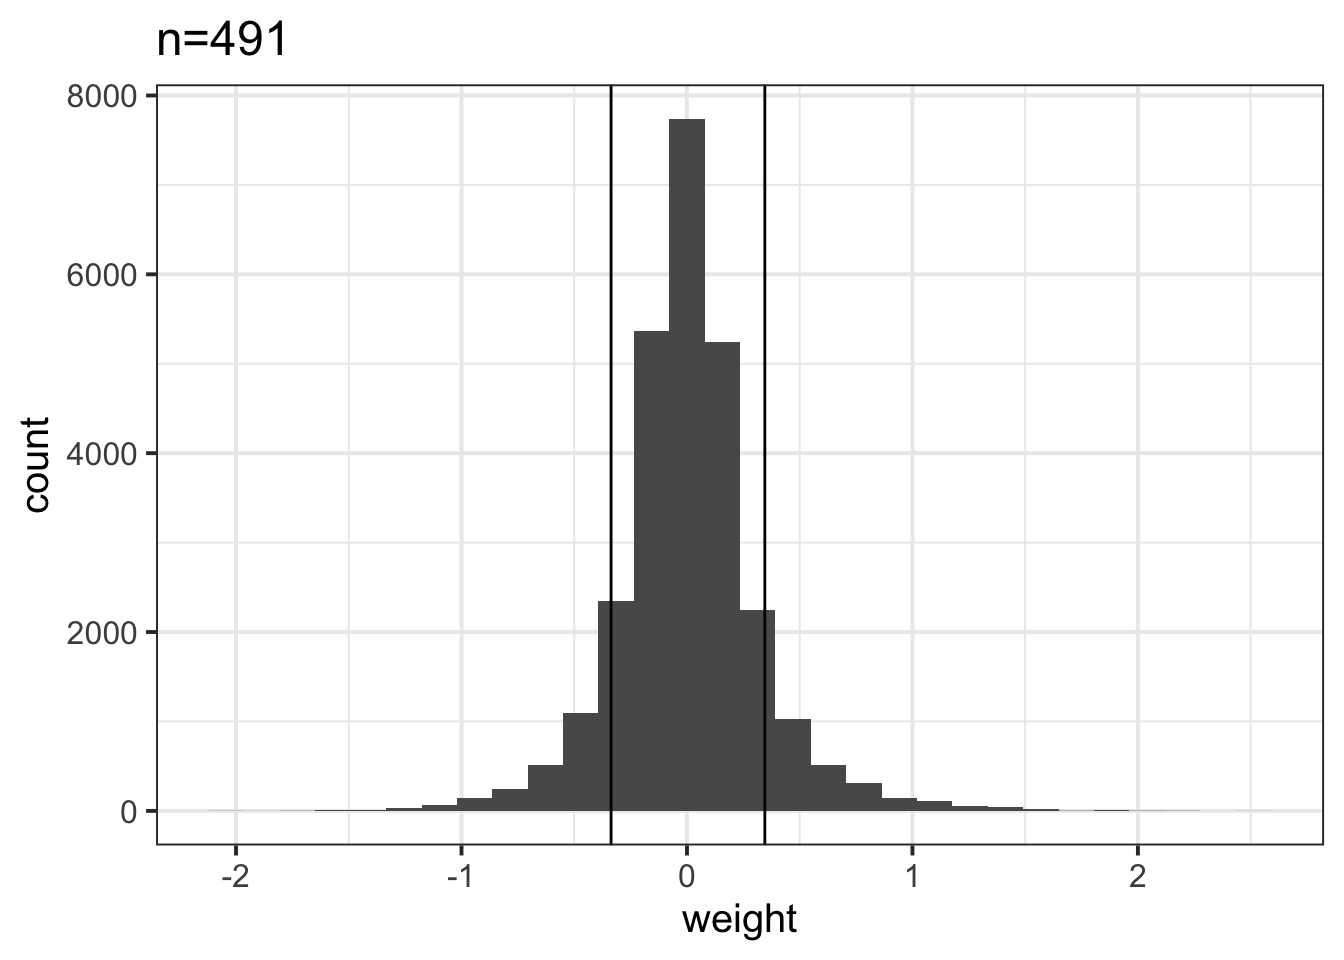
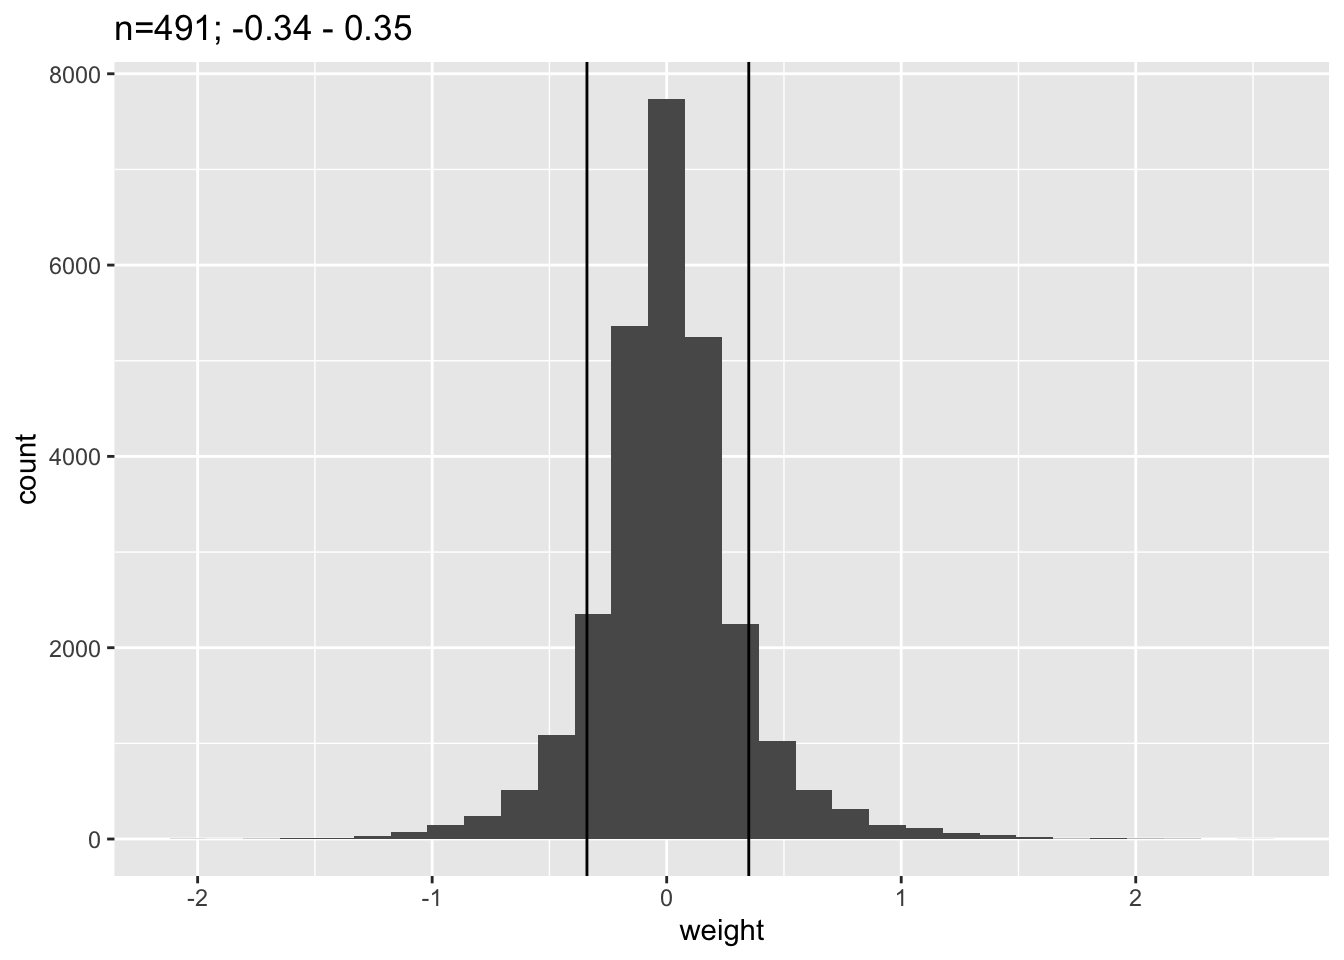
effect sizes

diff --git a/_site/posts/2023-02-28-predictdb-weights-distribution/predictdb-weights-distribution.html b/_site/posts/2023-02-28-predictdb-weights-distribution/predictdb-weights-distribution.html
@@ -255,9 +255,9 @@ code span.wa { color: #60a0b0; font-weight: bold; font-style: italic; } /* Warni
 <span id="cb3-6"><a href="#cb3-6" aria-hidden="true" tabindex="-1"></a><span class="fu">print</span>(dbname)</span>
 <span id="cb3-7"><a href="#cb3-7" aria-hidden="true" tabindex="-1"></a>db <span class="ot">=</span> <span class="fu">dbConnect</span>(sqlite,dbname)</span>
 <span id="cb3-8"><a href="#cb3-8" aria-hidden="true" tabindex="-1"></a>weights <span class="ot">=</span> <span class="fu">dbGetQuery</span>(db, <span class="st">"select * from weights"</span>)</span>
-<span id="cb3-9"><a href="#cb3-9" aria-hidden="true" tabindex="-1"></a>eightylines <span class="ot">=</span> <span class="fu">quantile</span>(weights<span class="sc">$</span>weight,<span class="fu">c</span>(<span class="fl">0.1</span>,<span class="fl">0.9</span>))</span>
-<span id="cb3-10"><a href="#cb3-10" aria-hidden="true" tabindex="-1"></a><span class="fu">print</span>( <span class="fu">quantile</span>(weights<span class="sc">$</span>weight,(<span class="dv">0</span><span class="sc">:</span><span class="dv">10</span>)<span class="sc">/</span><span class="dv">10</span>) )</span>
-<span id="cb3-11"><a href="#cb3-11" aria-hidden="true" tabindex="-1"></a>pp <span class="ot">&lt;-</span> <span class="fu">ggplot</span>(weights,<span class="fu">aes</span>(weight))<span class="sc">+</span><span class="fu">geom_histogram</span>() <span class="sc">+</span> <span class="fu">geom_vline</span>(<span class="at">xintercept=</span>eightylines) <span class="sc">+</span><span class="fu">ggtitle</span>(titulo) <span class="sc">+</span><span class="fu">theme_bw</span>(<span class="at">base_size =</span> <span class="dv">15</span>)</span>
+<span id="cb3-9"><a href="#cb3-9" aria-hidden="true" tabindex="-1"></a>eightylines <span class="ot">=</span> <span class="fu">quantile</span>(weights<span class="sc">$</span>weight,<span class="fu">c</span>(<span class="fl">0.1</span>,<span class="fl">0.9</span>)) <span class="sc">%&gt;%</span> <span class="fu">round</span>(<span class="dv">2</span>)</span>
+<span id="cb3-10"><a href="#cb3-10" aria-hidden="true" tabindex="-1"></a><span class="fu">quantile</span>(weights<span class="sc">$</span>weight,(<span class="dv">0</span><span class="sc">:</span><span class="dv">10</span>)<span class="sc">/</span><span class="dv">10</span>) <span class="sc">%&gt;%</span> <span class="fu">round</span>(<span class="dv">2</span>) <span class="sc">%&gt;%</span> <span class="fu">print</span>()</span>
+<span id="cb3-11"><a href="#cb3-11" aria-hidden="true" tabindex="-1"></a>pp <span class="ot">&lt;-</span> <span class="fu">ggplot</span>(weights,<span class="fu">aes</span>(weight))<span class="sc">+</span><span class="fu">geom_histogram</span>() <span class="sc">+</span> <span class="fu">geom_vline</span>(<span class="at">xintercept=</span>eightylines) <span class="sc">+</span><span class="fu">ggtitle</span>(<span class="fu">glue</span>(<span class="st">"{titulo}; {eightylines[1]} - {eightylines[2]}"</span>))</span>
 <span id="cb3-12"><a href="#cb3-12" aria-hidden="true" tabindex="-1"></a><span class="fu">print</span>(pp)</span>
 <span id="cb3-13"><a href="#cb3-13" aria-hidden="true" tabindex="-1"></a><span class="fu">dbDisconnect</span>(db)</span>
 <span id="cb3-14"><a href="#cb3-14" aria-hidden="true" tabindex="-1"></a>}</span></code><button title="Copy to Clipboard" class="code-copy-button"><i class="bi"></i></button></pre></div>
@@ -274,12 +274,8 @@ code span.wa { color: #60a0b0; font-weight: bold; font-style: italic; } /* Warni
 </details>
 <div class="cell-output cell-output-stdout">
 <pre><code>/Users/haekyungim/Library/CloudStorage/Box-Box/LargeFiles/imlab-data/data-Github/web-data/2023-02-28-predictdb-weight-distribution/eqtl/mashr_Adipose_Subcutaneous.db
-           0%           10%           20%           30%           40% 
--2.0862835036 -0.3366646457 -0.1955407983 -0.1192029220 -0.0524795537 
-          50%           60%           70%           80%           90% 
--0.0004974371  0.0508192645  0.1156329492  0.1967938636  0.3453561636 
-         100% 
- 2.4661740079 </code></pre>
+   0%   10%   20%   30%   40%   50%   60%   70%   80%   90%  100% 
+-2.09 -0.34 -0.20 -0.12 -0.05  0.00  0.05  0.12  0.20  0.35  2.47 </code></pre>
 </div>
 <div class="cell-output cell-output-stderr">
 <pre><code>`stat_bin()` using `bins = 30`. Pick better value with `binwidth`.</code></pre>
@@ -299,12 +295,8 @@ code span.wa { color: #60a0b0; font-weight: bold; font-style: italic; } /* Warni
 </details>
 <div class="cell-output cell-output-stdout">
 <pre><code>/Users/haekyungim/Library/CloudStorage/Box-Box/LargeFiles/imlab-data/data-Github/web-data/2023-02-28-predictdb-weight-distribution/eqtl/mashr_Brain_Substantia_nigra.db
-           0%           10%           20%           30%           40% 
--2.5606706826 -0.2817076343 -0.1412252157 -0.0716207590 -0.0249602797 
-          50%           60%           70%           80%           90% 
--0.0002157115  0.0224318182  0.0676146117  0.1430069239  0.2949888129 
-         100% 
- 2.3995855086 </code></pre>
+   0%   10%   20%   30%   40%   50%   60%   70%   80%   90%  100% 
+-2.56 -0.28 -0.14 -0.07 -0.02  0.00  0.02  0.07  0.14  0.29  2.40 </code></pre>
 </div>
 <div class="cell-output cell-output-stderr">
 <pre><code>`stat_bin()` using `bins = 30`. Pick better value with `binwidth`.</code></pre>

diff --git a/_site/index.html b/_site/index.html
@@ -206,7 +206,7 @@ Haky
 </a>
 </div>
 </div>
-<div class="quarto-post image-right" data-index="1" data-categories="analysis" data-listing-date-sort="1677564000000" data-listing-file-modified-sort="1677629679974" data-listing-reading-time-sort="20.89">
+<div class="quarto-post image-right" data-index="1" data-categories="analysis" data-listing-date-sort="1677564000000" data-listing-file-modified-sort="1677630071109" data-listing-reading-time-sort="20.91">
 <div class="thumbnail">
 <a href="./posts/2023-02-28-predictdb-weights-distribution/predictdb-weights-distribution.html">
 <div class="thumbnail-image">
